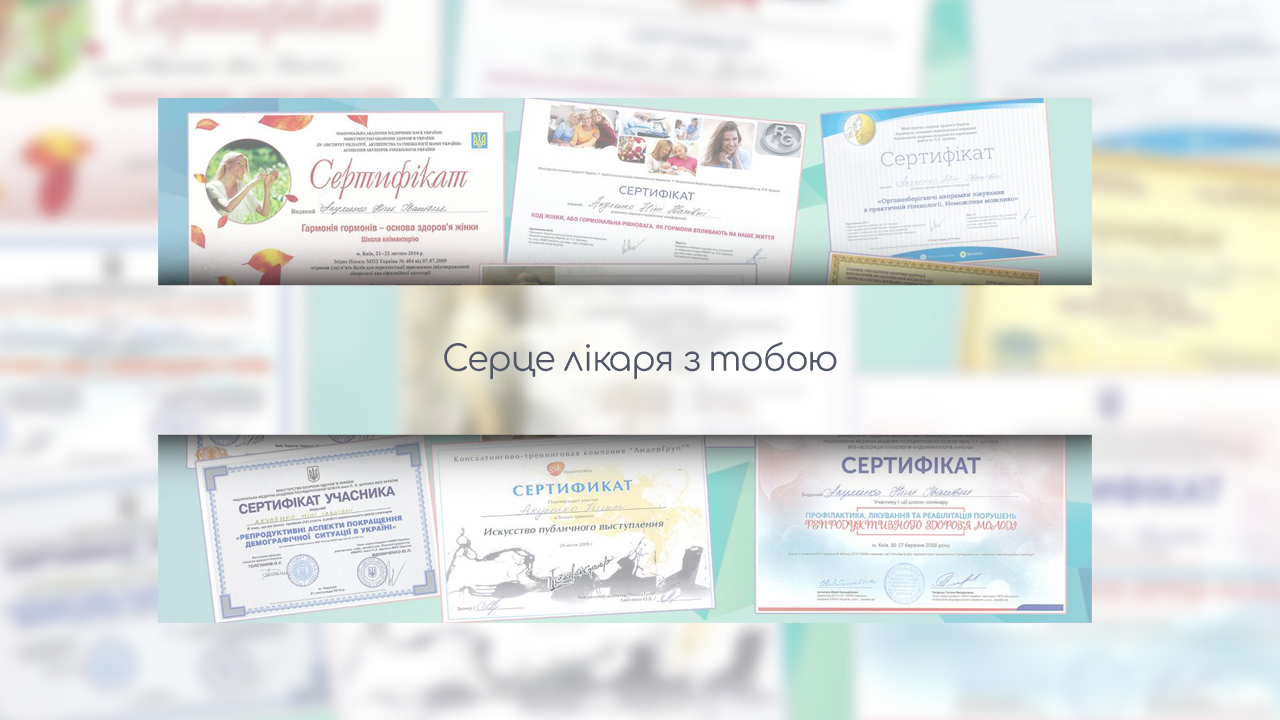
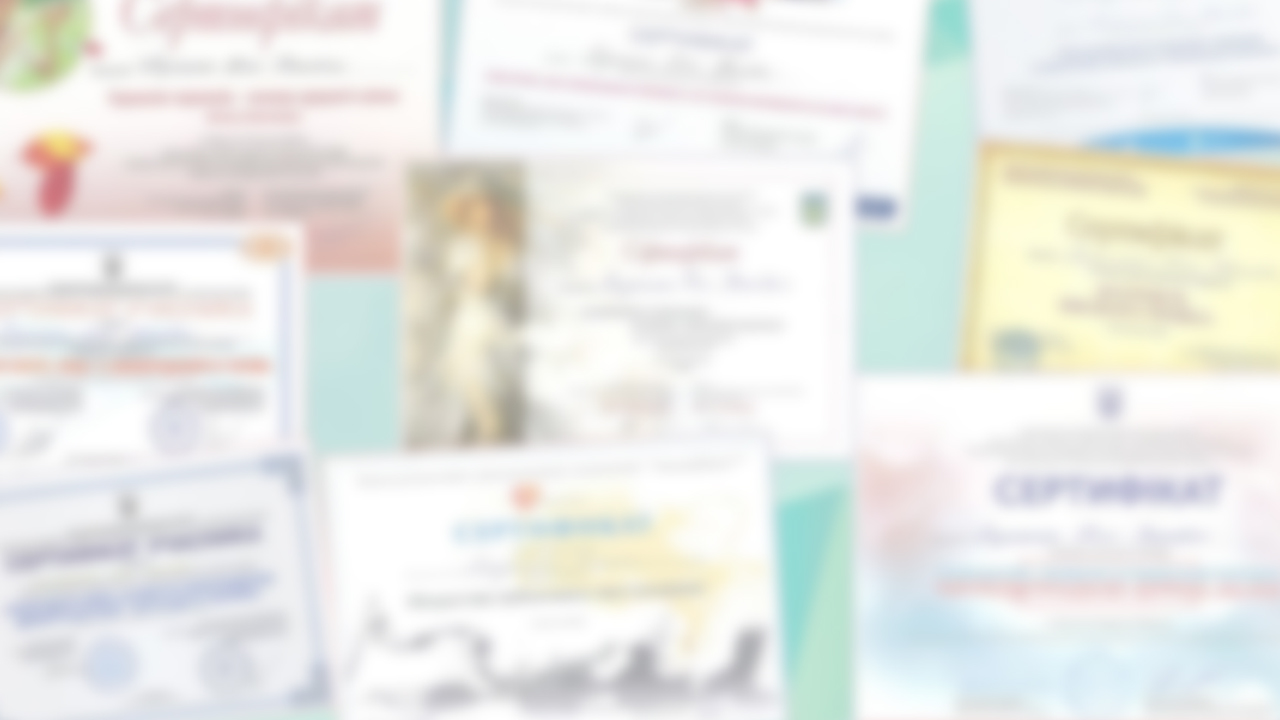
resolved merge conflicts or any other message

Changed region(s): [[0.125, 0.5806, 0.875, 0.8861], [0.125, 0.1222, 0.875, 0.3972], [0.3438, 0.4889, 0.6562, 0.5194]]

diff --git a/index.html b/index.html
@@ -120,7 +120,12 @@
                                     <p class="lead"> <i class="fa fa-address-book"
                                             style="padding-right: 20px;"></i>+380676954831 (Моб. тел, Viber, Whatsapp)
                                     </p>
-                                    <p class="lead"> <i class="fa fa-send-o" style="padding-right: 20px;"></i>@Nickname
+                                    <p class="lead"> <i class="fa fa-address-book"
+                                        style="padding-right: 20px;"></i>+380000000000 (Додатковий мобільний телефон)
+                                </p>
+                                    <!-- <p class="lead"> <i class="fa fa-send-o" style="padding-right: 20px;"></i>@Nickname
+                                    </p> -->
+                                    <p class="lead"> <i class="fa fa-envelope" style="padding-right: 20px;"></i>bla-bla@gmail.com
                                     </p>
                                     <span>Дзвінки з 8:00 - 20:00 <br></span>
                                     <span>По можливості дзвінки приймаються навіть коли відсутнє світло</span>
@@ -600,9 +605,9 @@
     <!-- End Clients -->
 
     <!-- Promo Banner -->
-    <div class="promo-banner parallax-window" style="" data-parallax="scroll" data-image-src="img/1920x1080/04.jpg">
-        <div class="container-sm content-lg" style="height: 580px; display: flex; align-items: center;">
-            <!-- <h2 style="font-size: 80px;">Серце лікаря з тобою</h2> -->
+    <div class="promo-banner parallax-window" style="" data-parallax="scroll" data-image-src="img/1920x1080/05.jpg">
+        <div class="container-sm content-lg" style="height: 480px; display: flex; align-items: center; justify-content: center;">
+            <h2 style="font-size: 60px;">Серце лікаря з тобою</h2>
         </div>
 
     </div>
